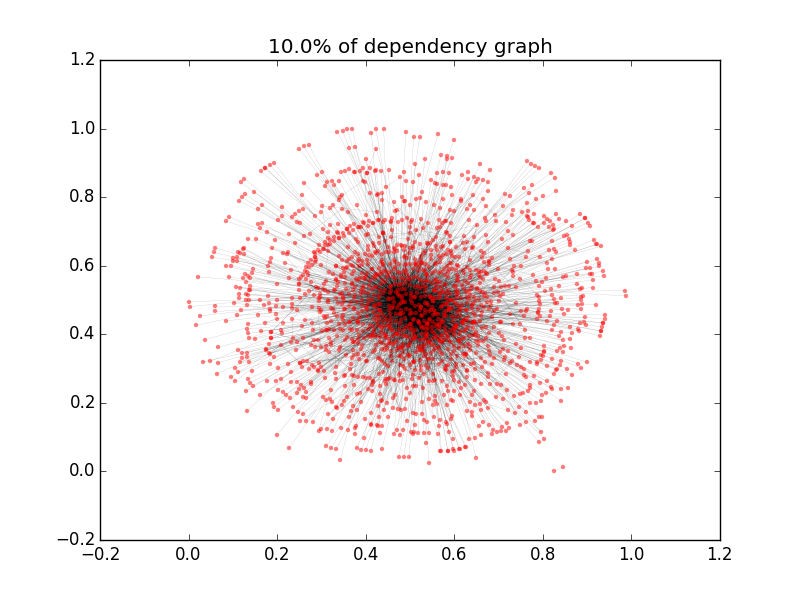
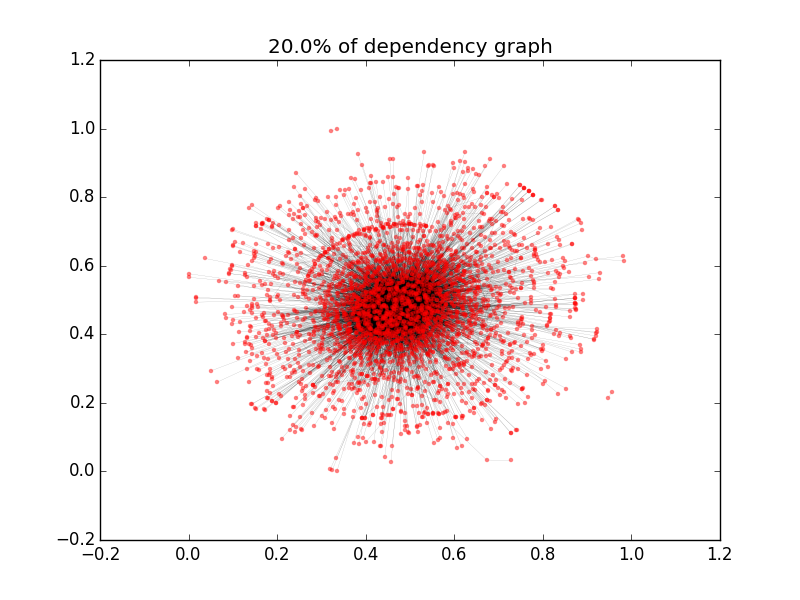
successfully completed 20%, about to run on 30%

diff --git a/src/graphs/full_graph.py b/src/graphs/full_graph.py
@@ -55,5 +55,5 @@ def show_full_graph(pct=1, show=False, save=True):
   if save: plt.savefig(outputDir + '/' + 'full_plot.png')
   if show: plt.show()
 
-show_full_graph(pct=0.1, show=True)
+show_full_graph(pct=0.2, show=True)
 
